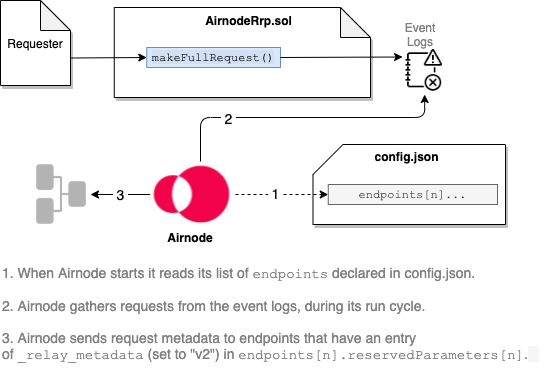
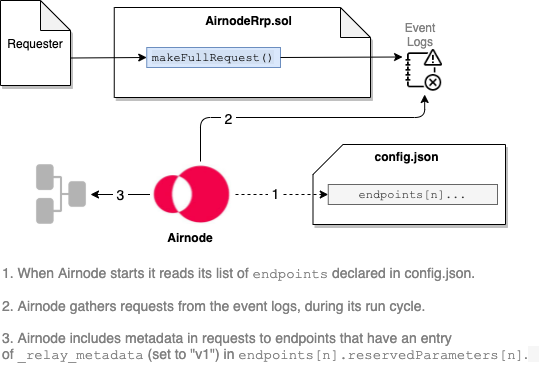
Cleanup of the last three issues with authorization.md

Changed region(s): [[0.123, 0.8661, 0.83, 0.9528]]

diff --git a/docs/airnode/next/concepts/authorization.md b/docs/airnode/next/concepts/authorization.md
@@ -49,22 +49,17 @@ Some common functions available are:
 - `userIsWhitelisted`: Called to check if a requester is whitelisted to use the Airnode–endpoint pair
 - `airnodeToEndpointIdToUserToWhitelistStatus`: Called to get the detailed whitelist status of a requester for the Airnode–endpoint pair
 
-### Custom Authorization Policies
+### Custom Authorizers
 
-<Fix>This example is out-of-date and points to pre-alpha</Fix>
-Authorizer contracts can implement any arbitrary authorization logic.
-See [this example](https://github.com/api3dao/airnode/blob/pre-alpha/packages/protocol/contracts/authorizers/MinBalanceAuthorizer.sol) where Airnode only responds to requests if the wallet it will use to fulfill the request has a balance more than an amount set by the provider admin.
+Custom authorizer contracts can implement any arbitrary authorization logic An example might be where Airnode only responds to requests if the wallet it will use to fulfill the request has a balance more than an amount set by the Airnode operator admin.
 
 ### Authorizer List
-
-<Fix>This is out-of-date and issue has been closed</Fix>
-The authorizer list allows you to combine single-purpose authorizer contracts to form complex policies. If you would like to contribute to this set of authorizer contracts, please join the conversation in [this issue](https://github.com/api3dao/airnode/issues/38).
 
 Airnode authorizers are listed in the config.json file at [`chains[n].authorizers`](../grp-providers/guides/build-an-airnode/configuring-airnode.md#chains). An authorizer typically checks for a single condition (has the requester made their monthly payment, is the `requester` whitelisted, etc.). Authorizers can be combined to enforce more complex policies. If any of the authorizers in the list gives access, the request will considered to be authorized. From a logical standpoint, the authorization outcomes get `OR`ed.
 
 ### Authorizer Interface
 
-Authorizer contracts can be used to implement an arbitrary authorization policy based on it input parameters.
+Authorizer contracts that inherit from `IRrpAuthorizer` can be used to implement an arbitrary authorization policy based on its input parameters.
 
 - `requestId`: bytes32
 - `airnode`: address
@@ -91,8 +86,7 @@ interface IRrpAuthorizer {
 Below is an example of how to create the simplest form of an authorizer. This authorizer allows any requester contract to call the endpointId (0xf2ee...).
 
 ```solidity
-contract myAuthorizer is
-    IRrpAuthorizer
+contract myAuthorizer is IRrpAuthorizer
 {
   function isAuthorized(
       bytes32 requestId,
@@ -118,7 +112,7 @@ A protocol that does not have the authorizer scheme or equivalent functionality 
 
 ### Are authorizers required?
 
-Authorizers are not required. An Airnode operator could use [`_relay_metadata`](./authorization.md#relay-metadata) to authorize API access. And it is possible to use both authorizers and `_relay_metadata` together.
+Authorizers are not required. An Airnode operator could use [_relay_metadata](./authorization.md#relay-metadata) to authorize API access. And it is possible to use both authorizers and `_relay_metadata` together.
 
 ### How are authorizers implemented?
 
@@ -127,7 +121,6 @@ There are two main points to consider about how authorization policies are imple
 1. If the policies are kept off-chain, the requester cannot see them or check if they satisfy them. Furthermore, the Airnode owner updating the policies (e.g., increasing the service fees) requires off-chain coordination with the requester.
 2. Embedding the policies in the request–response loop results in a gas cost overhead.
 
-<Fix>This paragraph needs to be validated.</Fix>
 Based on these considerations, Airnode uses a hybrid method. An Airnode announces its authorization policy through off-chain channels as the addresses of a list of authorizer contracts. Whenever the Airnode receives a request, it checks if it should fulfill this request by making a static call that queries this on-chain policy. Similarly, the requester can use this on-chain policy by making a static call to check if they are authorized. This scheme both allows the Airnode to set transparent and flexible policies, and this to be done with no gas overhead.
 
 ### Access (deny, allow, filter)
@@ -296,7 +289,7 @@ The `isAuthorized()` function will be called by AirnodeRrp to verify the authori
 
 ## Relay Metadata
 
-Airnode operators can use the [\_relay_metadata](../reference/specifications/reserved-parameters.md#relay-metadata) reserved parameter to instruct Airnode to send along request metadata to an endpoint. The endpoint can then use the metadata to process and respond (or not) accordingly to the requester.
+Airnode operators can use the [\_relay_metadata](../reference/specifications/reserved-parameters.md#relay-metadata) named reserved parameter to instruct Airnode to send metadata to an endpoint. The endpoint can then use the metadata to process and respond (or not) accordingly to the requester.
 
 > ![concept-authorizer](../assets/images/concepts-relay-metadata.png)
 
@@ -305,7 +298,7 @@ This option has been implemented because sometimes the Airnode operator does not
 - The parameter that authorization depends on (e.g., if the requester has paid) should not be made public.
 - The Airnode operator does not want to interact with the chain to alter authorization statuses (e.g., does not want to make a transaction to whitelist a new user, which will cost them gas fees).
 
-Activate the sending of the metadata by setting the value of `_relay_metadata` to `v2`. Note that the use of `v2` is specific to Airnode version `v0.1.x`. The Airnode will attach its metadata in the query string for `GET` and request body for `POST`, before performing the endpoint call.
+Activate the sending of the metadata by adding a reserved parameter with a name of `_relay_metadata` that defaults to `v1`. Note that the use of `v1` is specific to Airnode version `v1.x.x`. The Airnode will attach the metadata in the query string for `GET` and request body for `POST`, before performing the endpoint call.
 
 ```json
 // Go to: ois.endpoints[n]reservedParameters[n].name in config.json
@@ -313,7 +306,7 @@ Activate the sending of the metadata by setting the value of `_relay_metadata` t
   ...
   {
     "name": "_relay_metadata",
-    "default": "v2"
+    "default": "v1"
   }
 ],
 ```
